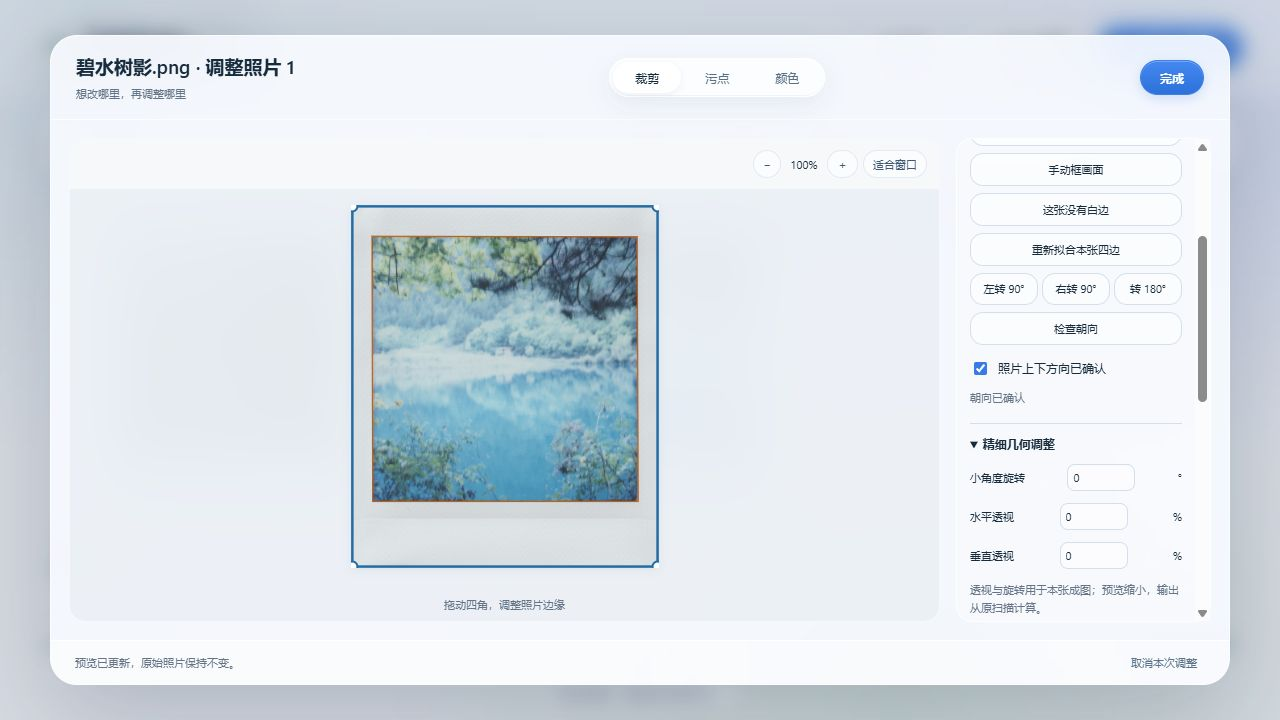
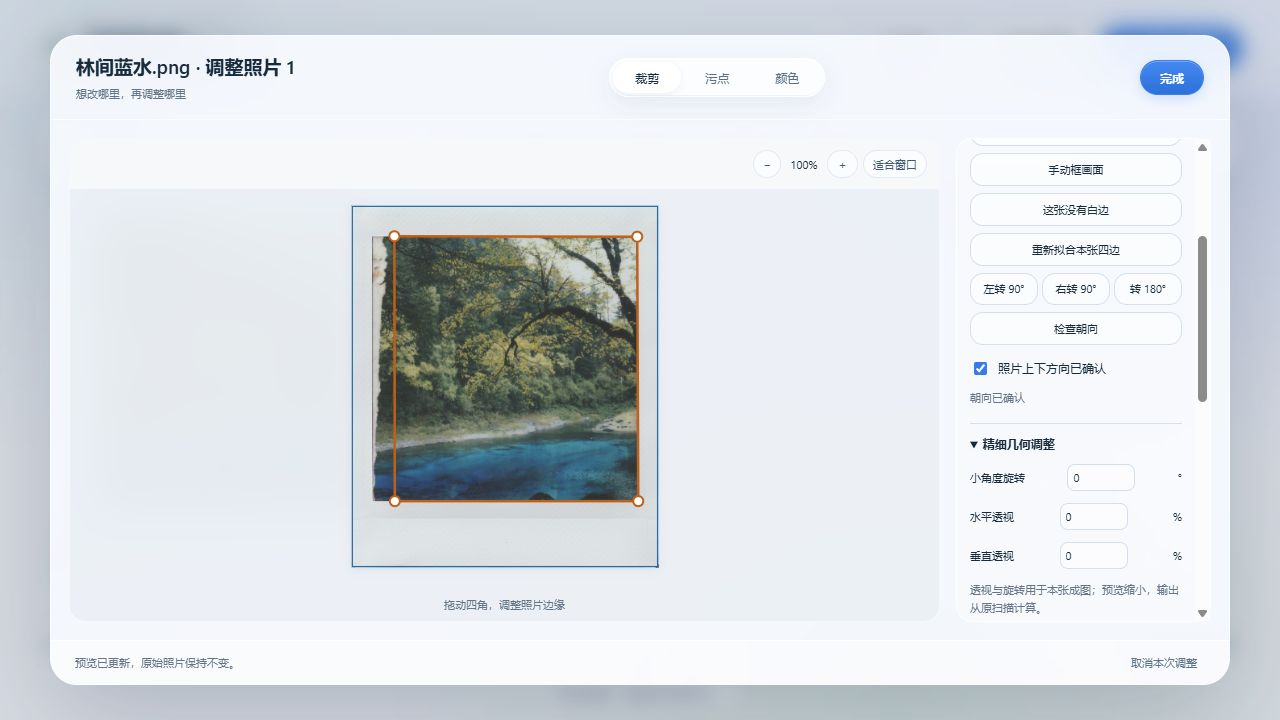
Use approved forest and blue-water photograph throughout README

Changed region(s): [[0.2812, 0.275, 0.5312, 0.7028], [0.0625, 0.0611, 0.125, 0.1222], [0.5, 0.7639, 0.5312, 0.7944]]

diff --git a/README.md b/README.md
@@ -10,9 +10,9 @@
 
 [📦 下载 Windows 版](https://github.com/Michaeloan/instacrop/releases/latest)　｜　[🌷 第一次使用](#-第一次使用跟着这-5-步走)　｜　[💬 常见问题](#-你可能想问)
 
-![碧水树影的三种成图](docs/images/landscape-hero.jpg)
+![林间蓝水的照片画面成图](docs/images/landscape-hero.jpg)
 
-<sub>碧水树影 · 同一张相纸的带白边、照片画面与背景成图</sub>
+<sub>林间蓝水 · 照片画面导出</sub>
 
 </div>
 
@@ -32,21 +32,13 @@
 
 它适合想把实体照片存成电子版的人，也适合已经扫描了一堆照片、一直没空挨张裁剪的人。
 
-## 🏞 把照片里的风景，整理成喜欢的样子
+## 🏞 把林间的一小片蓝色，认真保存下来
 
-这里选了两张湖泊与树林的风景相纸。经过四角复核、朝向确认和细线收边，分别导出带白边、照片画面与背景成图。
+金绿的树叶、横过画面的枝条、清透的蓝色水面，是这张风景相纸最喜欢的几个细节。
 
-### 青湖倒影：把山林与湖面一起留下
+![林间蓝水实际照片画面导出](docs/images/forest-detail.jpg)
 
-![青湖倒影的三种实际导出样式](docs/images/valley-comparison.jpg)
-
-保留白边时，是一张完整的实体相纸；单独提取画面时，山林与湖面的倒影铺满照片；放进背景画布后，又多了一层适合分享的留白。
-
-### 碧水树影：收藏一小片蓝绿色
-
-![碧水树影的三种实际导出样式](docs/images/lake-comparison.jpg)
-
-树枝、碧水和倒影保留原来的色调。把边缘收齐，喜欢的照片就能整整齐齐地放进电子相册。
+在 InstaCrop 中确认画面四角，修整左侧边缘，再导出照片画面。去掉多余的边缘后，树林与水面的层次更集中，适合放进电子相册，也适合分享给朋友。
 
 ## ✨ 你能用它做什么？
 
